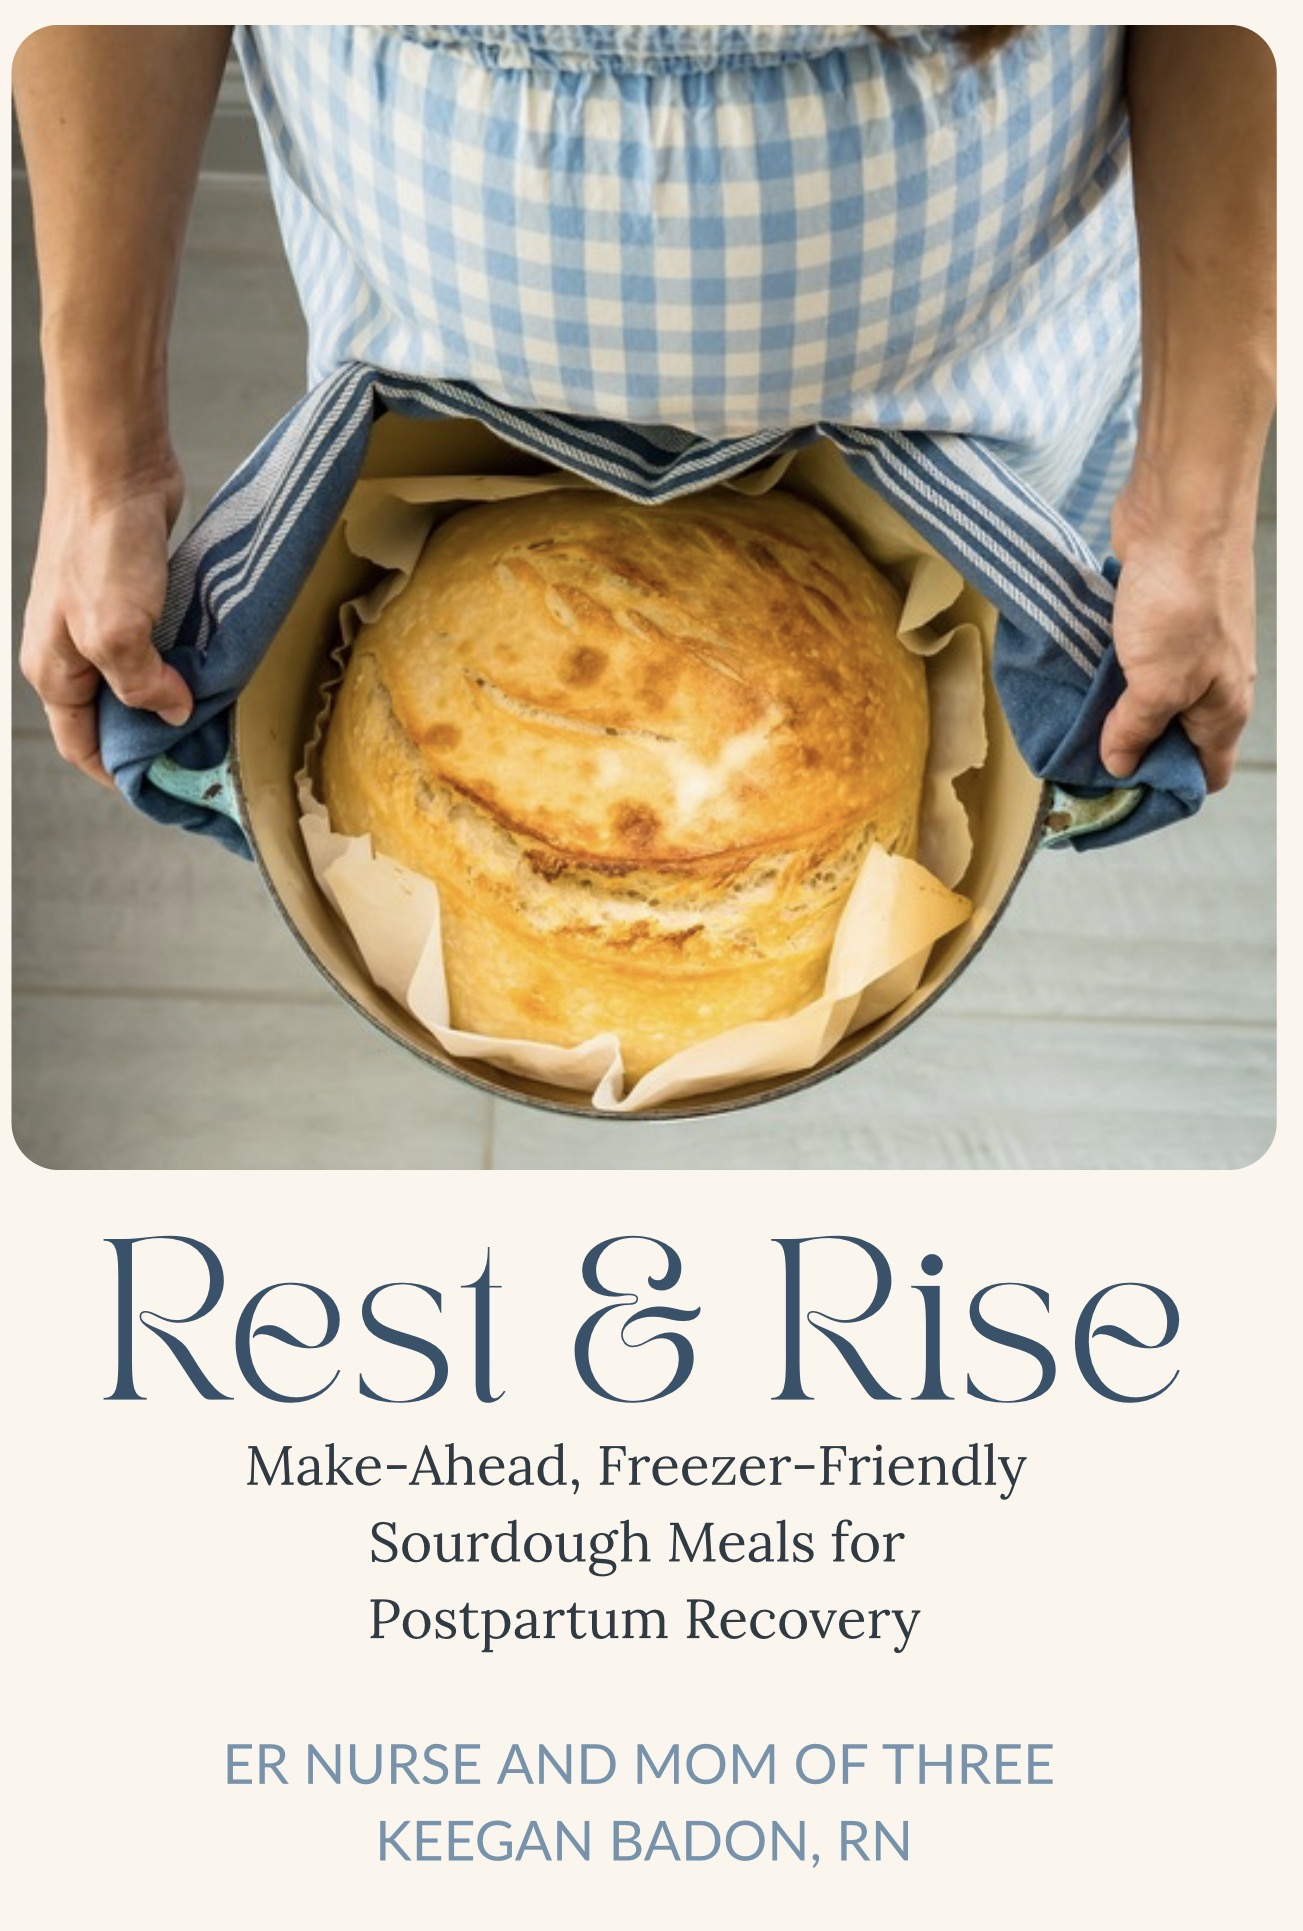
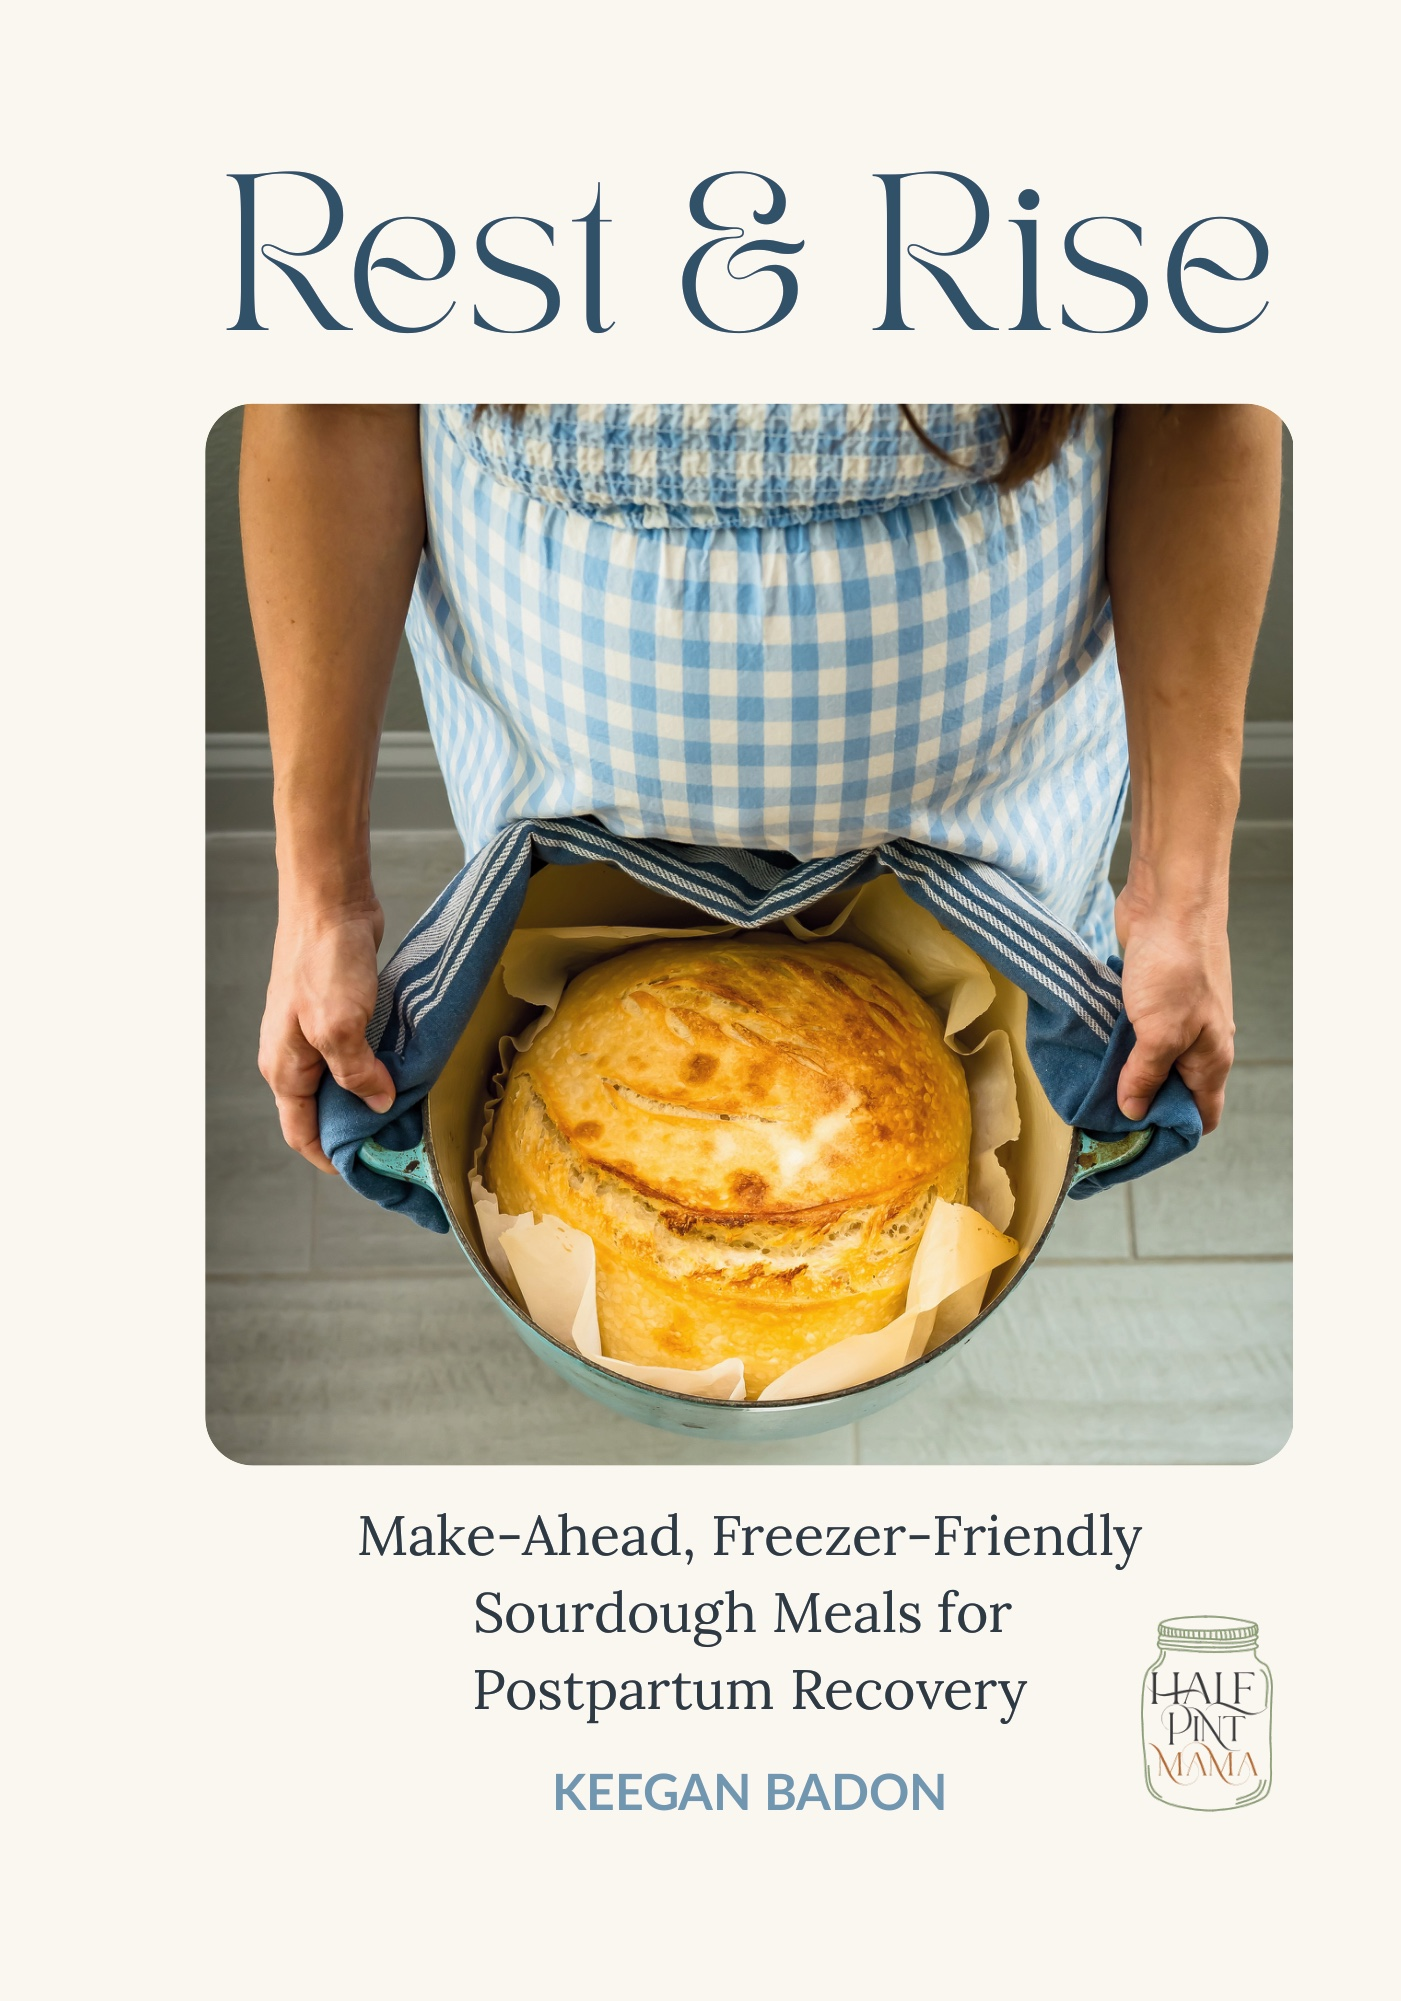
Use the final cover, and say plainly that the labels are not out yet
The shop was still showing the old cover: title under the photo, byline
reading ER nurse and mom of three, and no jar logo. It now uses the
front cover lifted straight from the print file, so what a reader sees
online is the book that arrives.

The labels card described the product as though it were on sale and
then sent the reader to another page that only repeated the same
sentence. The book names the labels on pages 34 and 165, so someone
will arrive looking for them before they exist. The card now carries a
status chip and says outright that they are not for sale yet, what
happens when preorders open, and that the waitlist is how you hear.
The pointless hop to a second page is gone.

Claude-Session: https://claude.ai/code/session_01Cn5CyREQ4pKv4vpidwPiMN

diff --git a/src/app/(site)/shop/page.tsx b/src/app/(site)/shop/page.tsx
@@ -144,9 +144,9 @@ export default async function ShopPage() {
               <div className="relative max-w-xs mx-auto">
                 <Image
                   src="/images/rest-and-rise-cover.jpg"
-                  alt="Rest and Rise cookbook cover: Make-Ahead, Freezer-Friendly Sourdough Meals for Postpartum Recovery, by ER nurse and mom of three Keegan Badon, RN"
-                  width={1303}
-                  height={1931}
+                  alt="Rest and Rise cookbook cover: a loaf of sourdough lifted from a Dutch oven, under the title Rest and Rise, Make-Ahead, Freezer-Friendly Sourdough Meals for Postpartum Recovery, by Keegan Badon"
+                  width={1401}
+                  height={2001}
                   priority
                   sizes="320px"
                   className="w-full h-auto rounded-2xl shadow-xl border-4 border-terracotta/20"
@@ -215,20 +215,30 @@ export default async function ShopPage() {
             <div className="bg-white rounded-2xl p-6 shadow-md flex gap-4 items-start">
               <ThemedIcon icon={Tag} size="lg" color="terracotta" />
               <div>
-                <h3 className="font-semibold text-charcoal mb-1">Printable Freezer Labels</h3>
-                <p className="text-charcoal/80 text-sm mb-3">
+                <div className="flex flex-wrap items-center gap-2 mb-1">
+                  <h3 className="font-semibold text-charcoal">Printable Freezer Labels</h3>
+                  {/* The book names these on pages 34 and 165, so a reader may
+                      arrive looking for them before they exist. Say so plainly
+                      rather than describing them as though they were on sale. */}
+                  {status === "waitlist" && (
+                    <span className="text-[11px] font-semibold uppercase tracking-wide text-terracotta bg-terracotta/10 rounded-full px-2 py-0.5">
+                      Not out yet
+                    </span>
+                  )}
+                  {status === "preorder" && (
+                    <span className="text-[11px] font-semibold uppercase tracking-wide text-deep-sage bg-sage/20 rounded-full px-2 py-0.5">
+                      Free with preorder
+                    </span>
+                  )}
+                </div>
+                <p className="text-charcoal/80 text-sm">
+                  A fillable PDF: every recipe in the book waiting in a dropdown, or type your own.{" "}
                   {status === "launched"
-                    ? "A fillable PDF: every recipe in the book waiting in a dropdown, or type your own. Sold above as its own item."
+                    ? "Sold above as its own item."
                     : status === "preorder"
-                      ? "A fillable PDF: every recipe in the book waiting in a dropdown, or type your own. Free with every preorder, emailed as soon as your payment clears."
-                      : "A fillable PDF: every recipe in the book waiting in a dropdown, or type your own. Coming as a preorder-only bonus with the book."}
+                      ? "Yours free with the book, emailed as soon as your payment clears."
+                      : "They are not for sale yet. When preorders open they come free with the book, and they become a separate item after that. Join the waitlist above and you will hear first."}
                 </p>
-                <Link
-                  href="/cookbook-resources"
-                  className="text-terracotta hover:text-deep-sage text-sm font-medium transition-colors"
-                >
-                  About the labels &rarr;
-                </Link>
               </div>
             </div>
           </div>
@@ -280,8 +290,8 @@ function Waitlist() {
       <p className="text-charcoal/80 text-xs mt-3">
         Join and both my free guides arrive right away: the Postpartum Freezer Prep
         Guide, so you can start filling the freezer now, and my Sourdough Starter
-        Guide, so your starter is ready before the book is. Printable freezer labels
-        for every recipe will be a preorder-only bonus. Preorders coming soon.
+        Guide, so your starter is ready before the book is. The printable freezer labels
+        are not out yet; when preorders open they come free with the book.
       </p>
     </div>
   );
